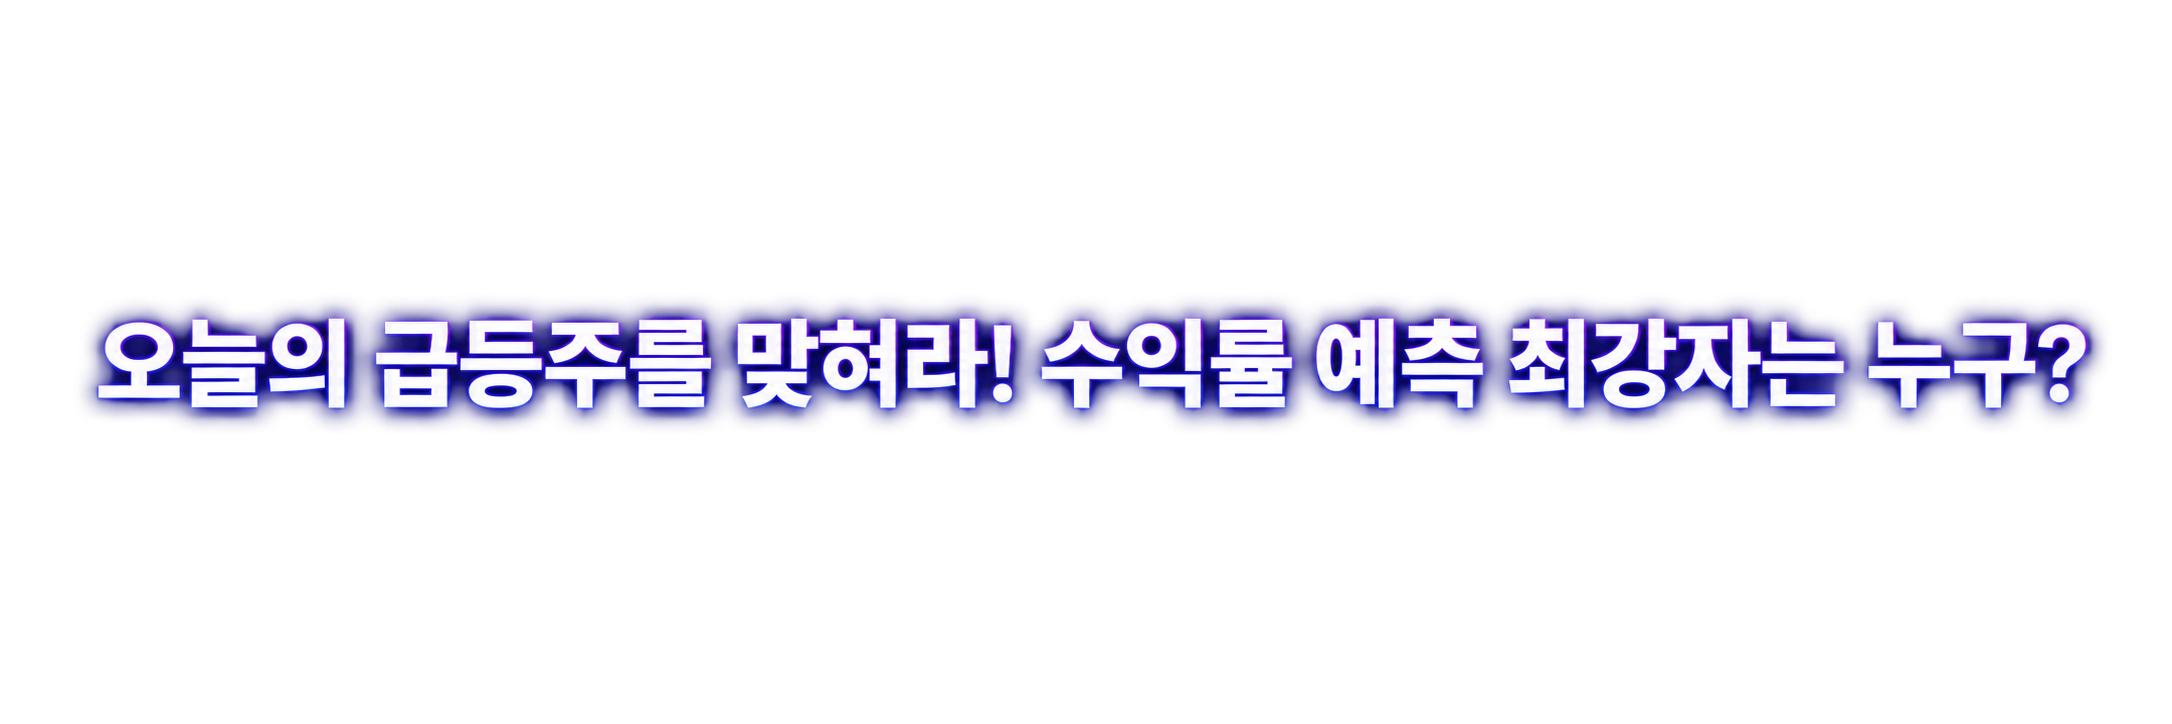
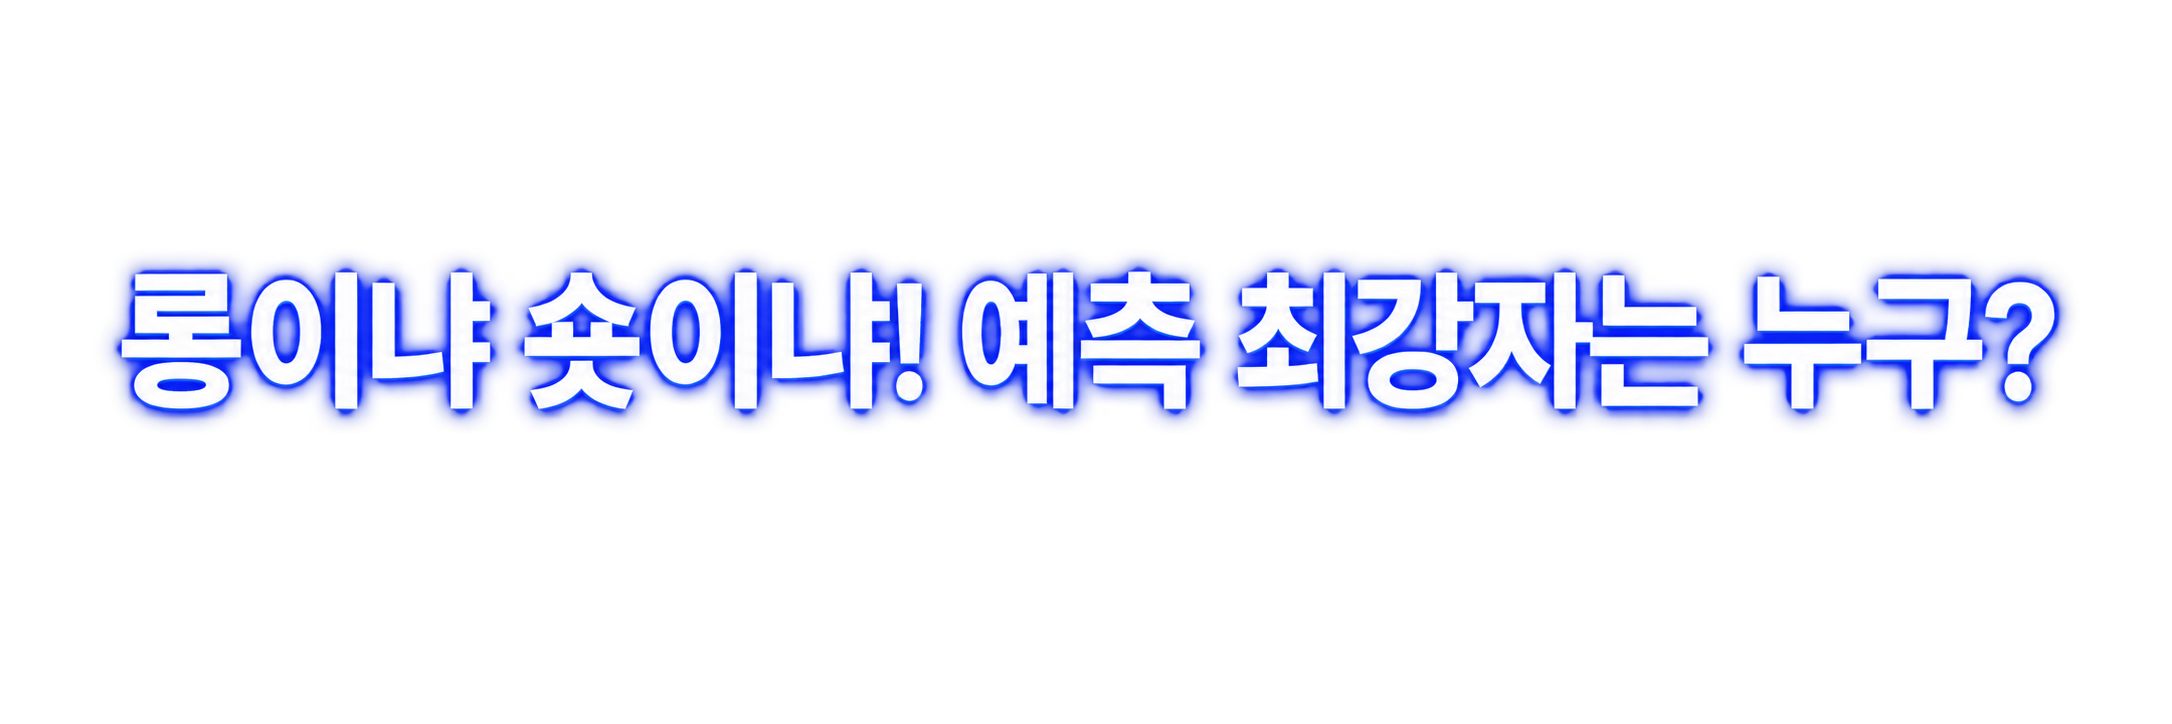
design: FE_대회 배너 문구를 "롱이냐 숏이냐" 로 교체
시작 전·진행 중·집계 중 세 단계가 함께 쓰는 copy-before 한 장이다.
원본 PNG 와 구운 WebP 를 같은 이름으로 갈아끼웠고(900x76, 52KB),
그림 속 글자를 대신하는 alt 세 줄도 함께 고쳤다 — 그림만 바꾸면
보이는 말과 읽어 주는 말이 조용히 달라진다.

Changed region(s): [[0.0308, 0.3343, 0.9871, 0.6077]]

diff --git a/frontend/src/event/contest.ts b/frontend/src/event/contest.ts
@@ -152,19 +152,19 @@ export const BANNER: Record<Phase, BannerArt> = {
     pill: ART('pill-before'),
     title: ART('title-main'),
     copy: ART('copy-before'),
-    alt: '천하제일 단타대회 — 시작 전. 오늘의 급등주를 맞혀라! 수익률 예측 최강자는 누구?',
+    alt: '천하제일 단타대회 — 시작 전. 롱이냐 숏이냐! 예측 최강자는 누구?',
   },
   open: {
     pill: ART('pill-open'),
     title: ART('title-main'),
     copy: ART('copy-before'),
-    alt: '천하제일 단타대회 — 대회 진행 중. 오늘의 급등주를 맞혀라! 수익률 예측 최강자는 누구?',
+    alt: '천하제일 단타대회 — 대회 진행 중. 롱이냐 숏이냐! 예측 최강자는 누구?',
   },
   judging: {
     pill: ART('pill-judging'),
     title: ART('title-main'),
     copy: ART('copy-before'),
-    alt: '천하제일 단타대회 — 결과 집계 중. 오늘의 급등주를 맞혀라! 수익률 예측 최강자는 누구?',
+    alt: '천하제일 단타대회 — 결과 집계 중. 롱이냐 숏이냐! 예측 최강자는 누구?',
   },
   done: {
     pill: ART('pill-done'),

diff --git a/frontend/public/assets/banner/README.md b/frontend/public/assets/banner/README.md
@@ -40,6 +40,11 @@
 
 자리 값은 `src/styles/home.css` 의 `.hm-ev-*` 가 띠 높이(`cqh`) 하나로 잰다.
 
+**문구를 갈면 `contest.ts` 의 `alt` 도 같이 고친다.** 그림 안의 글자는 읽어 주는
+기기에 안 보이므로, `BANNER[단계].alt` 가 그 글자를 대신한다 — 그림만 바꾸면
+화면에 보이는 말과 읽어 주는 말이 조용히 달라진다(2026-09-16 `copy-before` 를
+"롱이냐 숏이냐! 예측 최강자는 누구?" 로 갈면서 셋 다 고쳤다).
+
 ## 대회 페이지 머리 (J-01)
 
 홈 배너와 다른 자리다 — `/events/scalping` 맨 위 카드에 쓴다. 배경·캐릭터는 위
